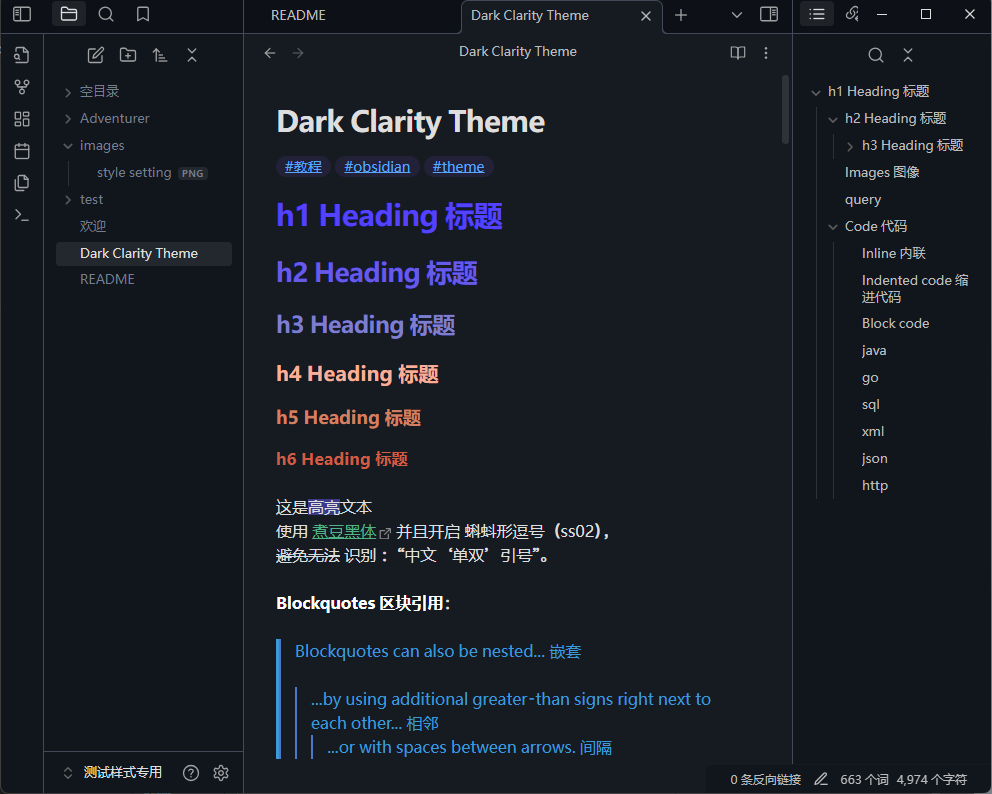
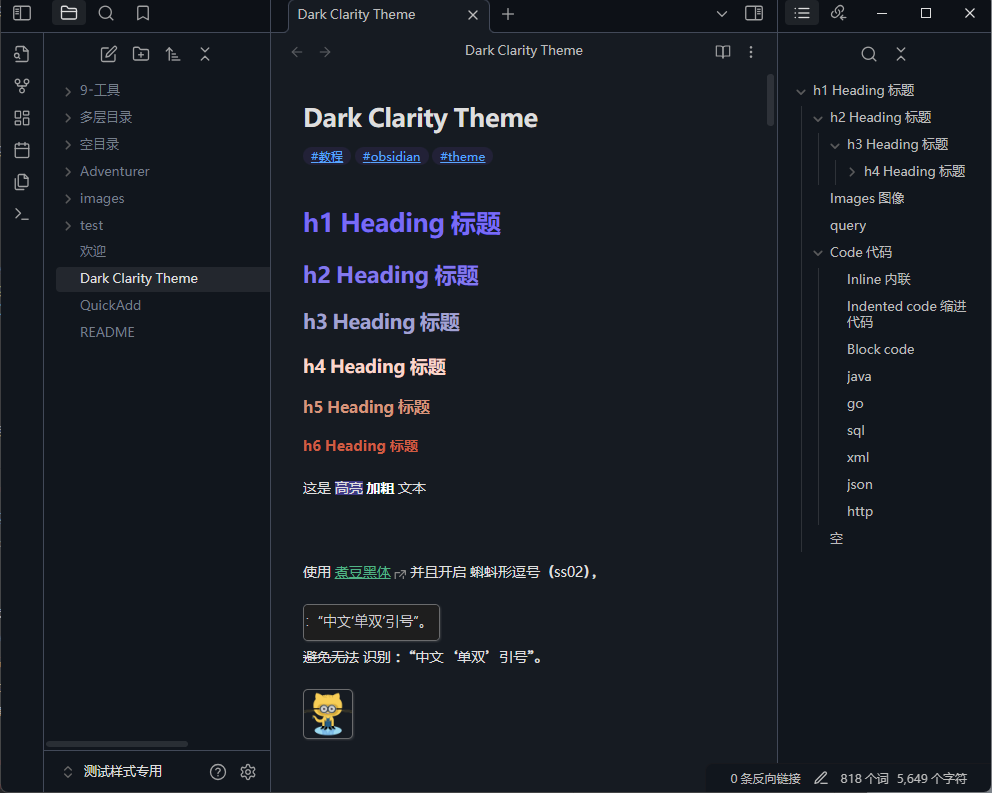
readme

diff --git a/README.md b/README.md
@@ -1,6 +1,7 @@
 ## Dark Clarity Theme
 
 **Dark Clarity**，一款 obsidian 的主题。
+
 ### 高辨识度、有配色
 
 主要以 **高辨识度**、且 h1~h6 标题 **有主题色** 为主。
@@ -36,7 +37,9 @@
 
 ### 主题整体预览
 
-![theme1](images/theme1.png)
+![](images/theme1.png)
+
+![](images/theme2.png)
 
 ### 左边栏滚动
 
